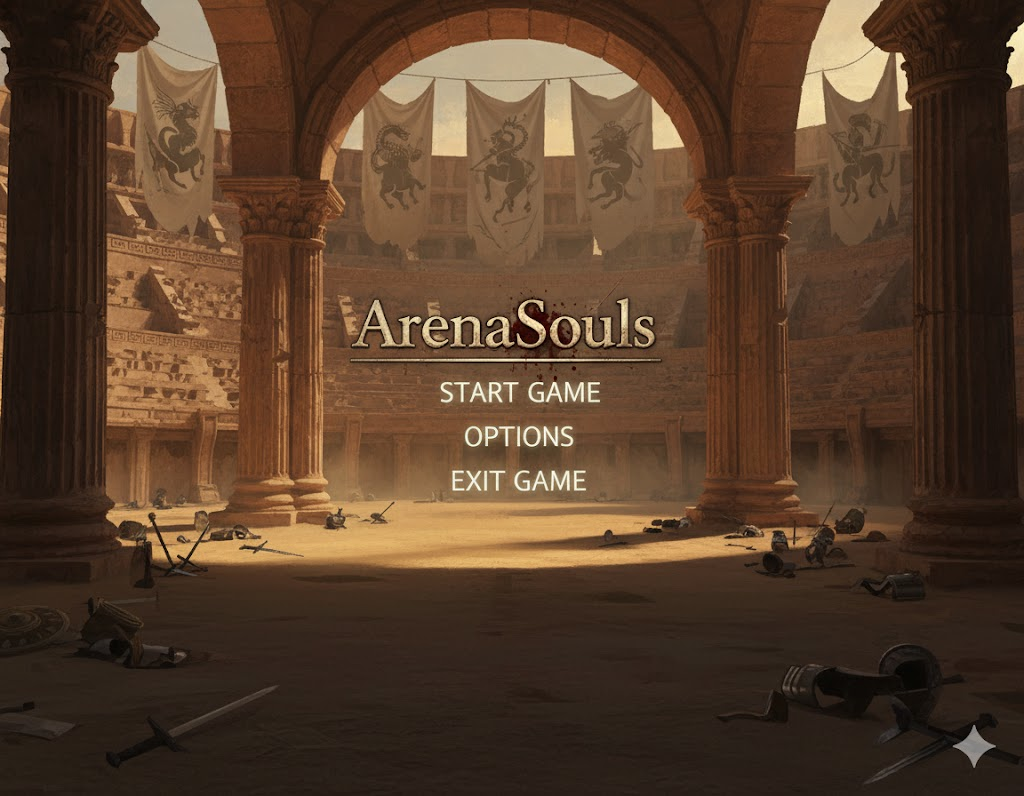
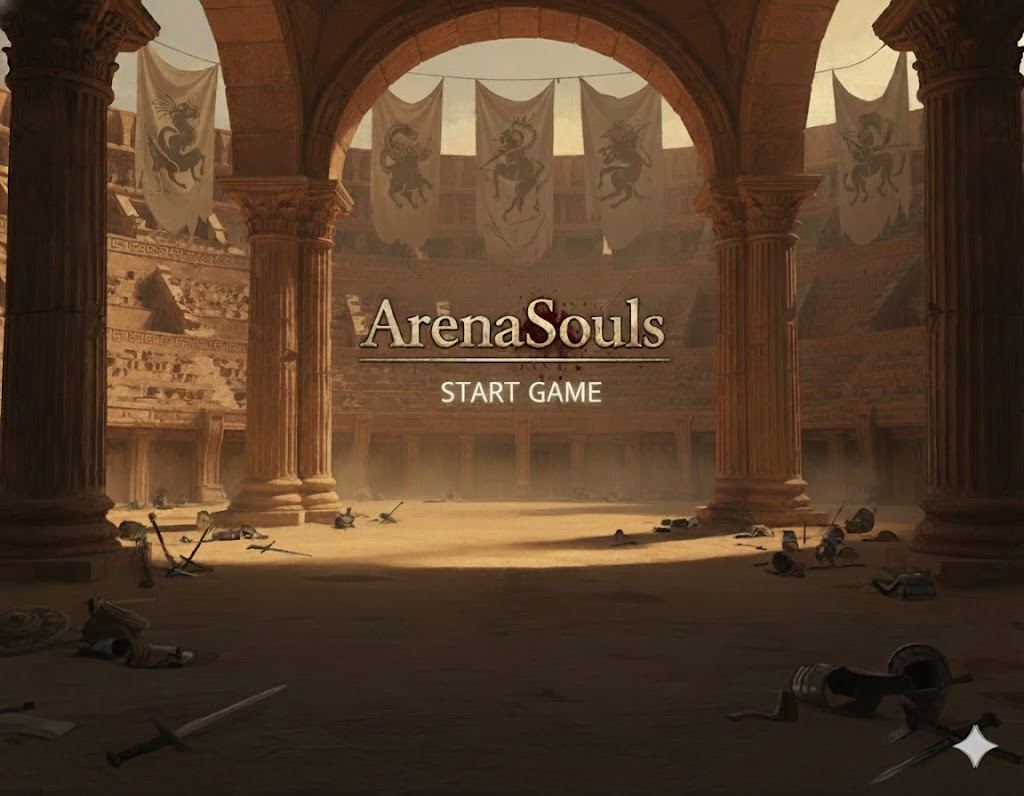
done

diff --git a/main.cpp b/main.cpp
@@ -18,13 +18,22 @@
 enum GameState {
     GAME_MENU,
     GAME_STARTING,
-    GAME_ACTIVE
+    GAME_ACTIVE,
+    GAME_WIN,
+    GAME_LOSE
 };
 
 GameState State = GAME_MENU;
 
 struct Application {
     Menu* menu;
+    Player* player;
+    Boss* boss;
+    TrainingDummy* dummy;
+    PlayerCamera* camera;
+    SoundEngine* soundEngine;
+    
+    void resetGame();
 };
 
 void framebuffer_size_callback(GLFWwindow* window, int width, int height);
@@ -33,6 +42,7 @@ void mouseButtonCallback(GLFWwindow* window, int button, int action, int mods);
 void scroll_callback(GLFWwindow* window, double xoffset, double yoffset);
 
 void processInput(GLFWwindow *window);
+void initGame(Player& player, Boss& boss, TrainingDummy& dummy, PlayerCamera& camera, SoundEngine& soundEngine);
 
 // Camera and timing
 PlayerCamera camera(glm::vec3(0.0f, 0.0f, 0.0f));
@@ -101,7 +111,7 @@ int main()
     
     // Initialize Debug Drawer
     DebugDrawer debugDrawer;
-
+    
     // build and compile shaders
     // -------------------------
     Shader shader("anim_model.vs", "anim_model.fs");
@@ -113,6 +123,16 @@ int main()
     TrainingDummy dummy; // Position dummy 10 units ahead
     //Model arena("resources/objects/arena/maze-grass/obj_export/maze_grass.obj");
     Model arena("resources/objects/arena/obj_v3/arena.obj");
+    
+    // Set up application references
+    app.player = &player;
+    app.boss = &boss;
+    app.dummy = &dummy;
+    app.camera = &camera;
+    app.soundEngine = &soundEngine;
+    
+    // Initialize game state
+    initGame(player, boss, dummy, camera, soundEngine);
 
     glEnable(GL_DEPTH_TEST);
 
@@ -130,6 +150,12 @@ int main()
 
         if (State == GAME_ACTIVE)
         {
+            if (player.isDead()) {
+                State = GAME_LOSE;
+            } else if (!boss.isAlive()) {
+                State = GAME_WIN;
+            }
+
             // Switch to battle music
             if (soundEngine.getCurrentMusic() != "battle") {
                 soundEngine.switchToMusic("battle");
@@ -243,6 +269,40 @@ int main()
 
             menu.draw();
         }
+        else if (State == GAME_WIN)
+        {
+            glDisable(GL_DEPTH_TEST);
+            glEnable(GL_BLEND);
+            glBlendFunc(GL_SRC_ALPHA, GL_ONE_MINUS_SRC_ALPHA);
+            glfwSetInputMode(window, GLFW_CURSOR, GLFW_CURSOR_NORMAL);
+            glClearColor(0.0f, 0.0f, 0.0f, 1.0f);
+            glClear(GL_COLOR_BUFFER_BIT);
+
+            // Switch to menu music
+            if (soundEngine.getCurrentMusic() != "menu") {
+                soundEngine.switchToMusic("menu");
+            }
+
+            menu.drawWinMenu();
+            glDisable(GL_BLEND);
+        }
+        else if (State == GAME_LOSE)
+        {
+            glDisable(GL_DEPTH_TEST);
+            glEnable(GL_BLEND);
+            glBlendFunc(GL_SRC_ALPHA, GL_ONE_MINUS_SRC_ALPHA);
+            glfwSetInputMode(window, GLFW_CURSOR, GLFW_CURSOR_NORMAL);
+            glClearColor(0.0f, 0.0f, 0.0f, 1.0f);
+            glClear(GL_COLOR_BUFFER_BIT);
+
+            // Switch to menu music
+            if (soundEngine.getCurrentMusic() != "menu") {
+                soundEngine.switchToMusic("menu");
+            }
+
+            menu.drawLoseMenu();
+            glDisable(GL_BLEND);
+        }
 
 
         // SFML Sound Test - Press T to play test sound
@@ -296,6 +356,26 @@ int main()
     return 0;
 }
 
+void initGame(Player& player, Boss& boss, TrainingDummy& dummy, PlayerCamera& camera, SoundEngine& soundEngine)
+{
+    player = Player();
+    player.setSoundEngine(&soundEngine);
+    
+    boss = Boss();
+    boss.setSoundEngine(&soundEngine);
+    boss.setPlayerReference(&player);
+    
+    dummy = TrainingDummy();
+    soundEngine.stopAllSounds();
+}
+
+void Application::resetGame()
+{
+    if (player && boss && dummy && camera && soundEngine) {
+        initGame(*player, *boss, *dummy, *camera, *soundEngine);
+    }
+}
+
 void processInput(GLFWwindow *window)
 {
     if (glfwGetKey(window, GLFW_KEY_ESCAPE) == GLFW_PRESS)
@@ -332,6 +412,20 @@ void mouseButtonCallback(GLFWwindow* window, int button, int action, int mods)
         if (app->menu->isStartButtonClicked(xpos, ypos))
         {
             State = GAME_STARTING;
+            glfwSetInputMode(window, GLFW_CURSOR, GLFW_CURSOR_DISABLED);
+        }
+    }
+    else if ((State == GAME_WIN || State == GAME_LOSE) && button == GLFW_MOUSE_BUTTON_LEFT && action == GLFW_PRESS)
+    {
+        double xpos, ypos;
+        glfwGetCursorPos(window, &xpos, &ypos);
+        Application* app = static_cast<Application*>(glfwGetWindowUserPointer(window));
+        
+        if (app->menu->isRestartButtonClicked(xpos, ypos))
+        {
+            // Reset game state and restart
+            app->resetGame();
+            State = GAME_MENU;
             glfwSetInputMode(window, GLFW_CURSOR, GLFW_CURSOR_DISABLED);
         }
     }

diff --git a/Menu.cpp b/Menu.cpp
@@ -17,6 +17,12 @@ float menuVertices[] = {
 Menu::Menu() : menuShader("menu.vs", "menu.fs") {
     stbi_set_flip_vertically_on_load(true);
     backgroundTexture = loadTexture("resources/background.jpg");
+    win_backgroundTexture = loadTexture("resources/win_background.jpg");
+    lose_backgroundTexture = loadTexture("resources/lose_background.jpg");
+    
+    winOpacity = 1.0f;
+    loseOpacity = 1.0f;
+    
     menuShader.use();
     menuShader.setInt("background", 0);
 
@@ -34,6 +40,7 @@ Menu::Menu() : menuShader("menu.vs", "menu.fs") {
 
 void Menu::draw() {
     menuShader.use();
+    menuShader.setFloat("opacity", 1.0f); // Full opacity for main menu
     glActiveTexture(GL_TEXTURE0);
     glBindTexture(GL_TEXTURE_2D, backgroundTexture);
     glBindVertexArray(menuVAO);
@@ -43,6 +50,37 @@ void Menu::draw() {
 bool Menu::isStartButtonClicked(double xpos, double ypos) {
     // Start button area (example coordinates)
     return (xpos > 400 && xpos < 600 && ypos > 350 && ypos < 450);
+}
+
+void Menu::drawWinMenu() {
+    // Draw the background first
+    menuShader.use();
+    menuShader.setFloat("opacity", winOpacity);
+    glActiveTexture(GL_TEXTURE0);
+    glBindTexture(GL_TEXTURE_2D, win_backgroundTexture);
+    glBindVertexArray(menuVAO);
+    glDrawArrays(GL_TRIANGLES, 0, 6);
+    
+    // Here you would render "Victory!" or "You Win!" text
+    // And options like "Play Again", "Main Menu"
+}
+
+void Menu::drawLoseMenu() {
+    // Draw the background first
+    menuShader.use();
+    menuShader.setFloat("opacity", loseOpacity);
+    glActiveTexture(GL_TEXTURE0);
+    glBindTexture(GL_TEXTURE_2D, lose_backgroundTexture);
+    glBindVertexArray(menuVAO);
+    glDrawArrays(GL_TRIANGLES, 0, 6);
+    
+    // Here you would render "Defeat!" or "You Died!" text
+    // And options like "Try Again", "Main Menu"
+}
+
+bool Menu::isRestartButtonClicked(double xpos, double ypos) {
+    // Restart button area (positioned above main menu button)
+    return (xpos > 430 && xpos < 564 && ypos > 515 && ypos < 566);
 }
 
 unsigned int Menu::loadTexture(const char* path)

diff --git a/Libraries/includes/Menu.h b/Libraries/includes/Menu.h
@@ -7,12 +7,19 @@ class Menu {
 public:
     Menu();
     void draw();
+    void drawWinMenu();
+    void drawLoseMenu();
     bool isStartButtonClicked(double xpos, double ypos);
+    bool isRestartButtonClicked(double xpos, double ypos);
 
 private:
     Shader menuShader;
     unsigned int menuVAO, menuVBO;
     unsigned int backgroundTexture;
+    unsigned int win_backgroundTexture;
+    unsigned int lose_backgroundTexture;
+    float winOpacity;
+    float loseOpacity;
 
     unsigned int loadTexture(const char* path);
 };
